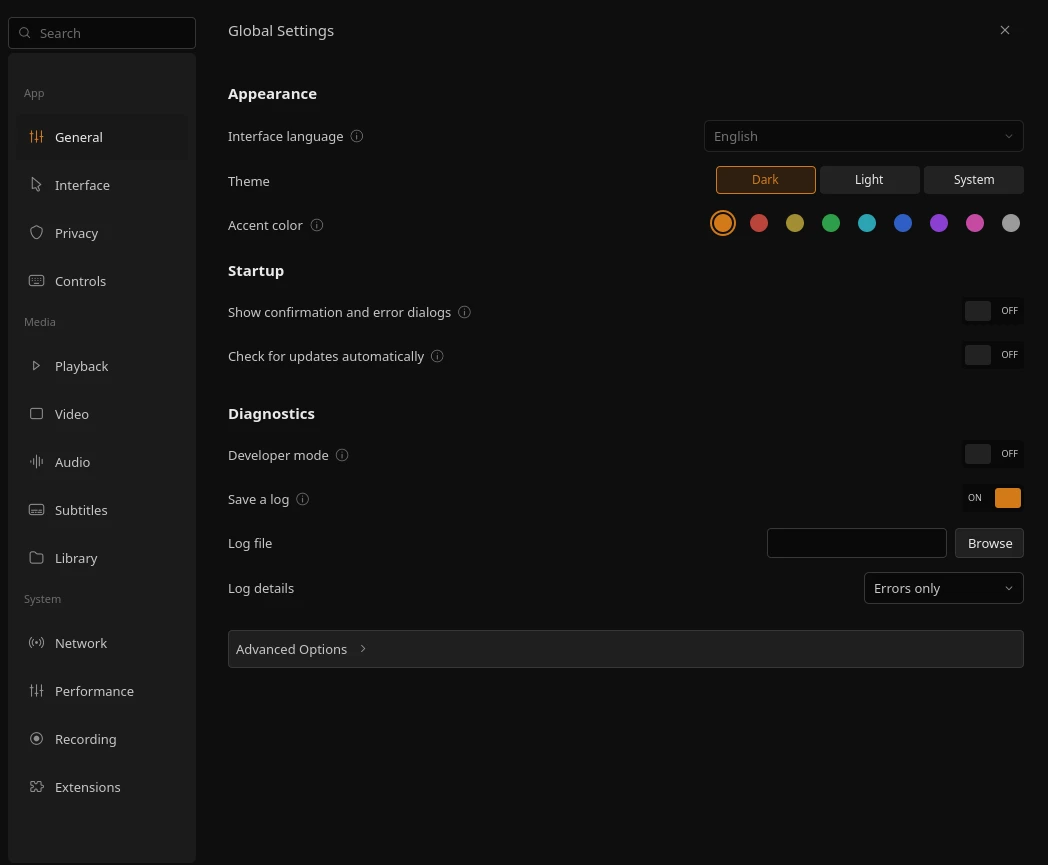
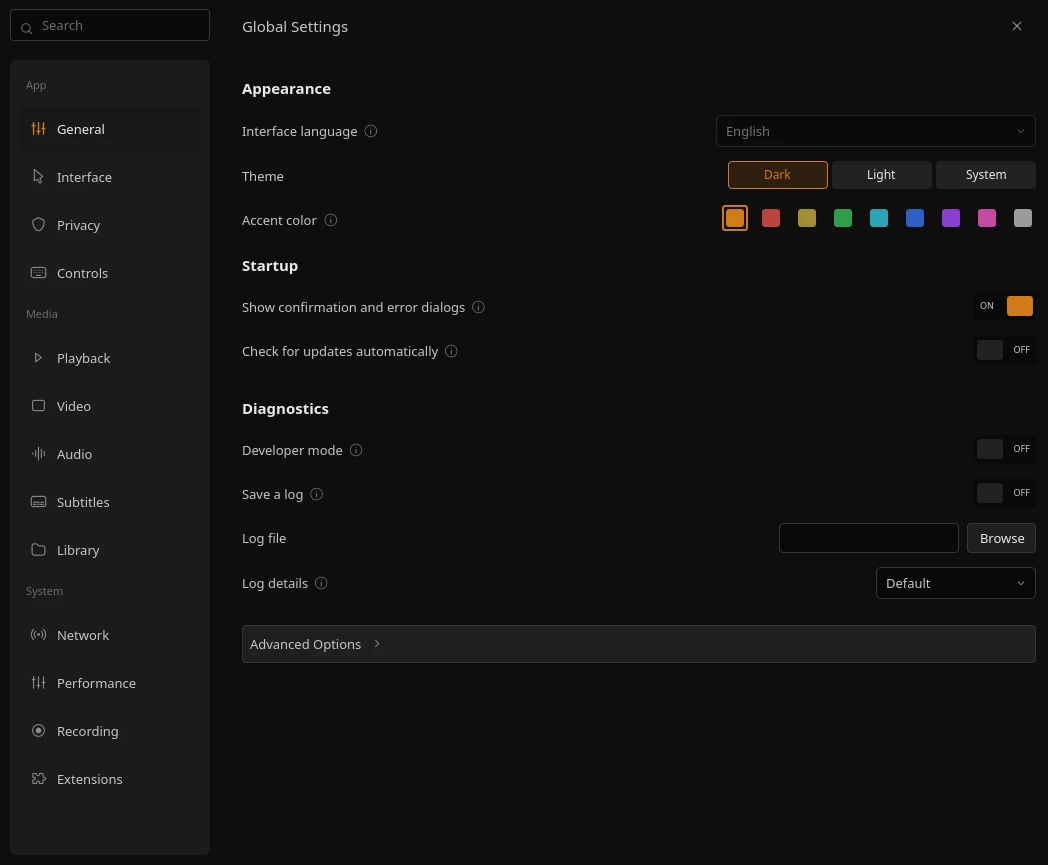
fix(figma): match settings accent swatches

diff --git a/qml/AccentPicker.qml b/qml/AccentPicker.qml
@@ -4,29 +4,42 @@ import Neo 1.0
 Row {
     id: root
     property bool compact: false
+    property bool square: false
     spacing: compact ? 2 : 18
+    function swatchForColor(color) {
+        for (let i = 0; i < accentRepeater.count; ++i) {
+            const item = accentRepeater.itemAt(i)
+            if (item && String(item.modelData).toUpperCase() === String(color).toUpperCase())
+                return item.colorSwatch
+        }
+        return null
+    }
     Repeater {
         id: accentRepeater
         model: Theme.accents
         delegate: Item {
             required property string modelData
             property bool selected: String(Theme.accent).toUpperCase() === modelData.toUpperCase()
+            property alias colorSwatch: colorSwatch
             width: root.compact ? 26 : 60
             height: width
             Rectangle {
+                objectName: "accent-outline-" + (root.square ? "settings-" : "onboarding-") + modelData.slice(1)
                 anchors.centerIn: parent
                 width: root.compact ? (selected ? 26 : 22) : (selected ? 60 : 40)
                 height: width
-                radius: width / 2
+                radius: root.square ? 3 : width / 2
                 color: "transparent"
                 border.width: selected ? 2 : 0
                 border.color: Theme.accent
             }
             Rectangle {
+                id: colorSwatch
+                objectName: "accent-swatch-" + (root.square ? "settings-" : "onboarding-") + modelData.slice(1)
                 anchors.centerIn: parent
                 width: root.compact ? 18 : 40
                 height: width
-                radius: width / 2
+                radius: root.square ? 3 : width / 2
                 color: modelData
             }
             MouseArea {

diff --git a/qml/SettingsDialog.qml b/qml/SettingsDialog.qml
@@ -891,7 +891,7 @@ Modal {
                     SettingRow {
                         label: "Accent color"
                         info: "Replaces VLC orange everywhere in the interface."
-                        AccentPicker { compact: true; spacing: 10 }
+                        AccentPicker { compact: true; square: true; spacing: 10 }
                     }
                     SectionTitle { text: "Startup" }
                     VlcOption { option: "qt-error-dialogs"; label: "Show confirmation and error dialogs"; info: "Let VLC display confirmation and error dialogs." }

diff --git a/qml/Onboarding.qml b/qml/Onboarding.qml
@@ -9,6 +9,7 @@ Modal {
     id: root
     signal topEdgeHoverChanged(bool hovered)
     property alias chromeLayer: onboardingChromeLayer
+    property alias accentPickerControl: accentPicker
     closable: false
     bodyMargin: 0
     width: parent ? parent.width : 1090

diff --git a/docs/figma-parity.md b/docs/figma-parity.md
@@ -11,7 +11,7 @@ Existing behavior is exercised through `scripts/smoke-test.sh`: playback and que
 This matrix tracks VLC Neo against the [VLC Redesign (Community) Figma file](https://www.figma.com/design/4JZcTRTM2ZVZdIV0S61smp/VLC-Redesign--Community---copie-) by Juxtopposed. The authenticated `browser` editor currently loads the copied file. The Figma MCP is authenticated as the user's Starter-plan **View** seat. On 2026-10-29, `get_screenshot` successfully rendered Home node `6261:15078`; the Starter-plan Figma MCP call limit now blocks further screenshot and design-context requests, so current visual comparisons use the authenticated browser editor. Earlier inspection established that `Page 1` has 57 top-level screen frames and 46 component reference frames; the inventory below includes every screen frame, while the 46 component examples are not counted as UI coverage.
 The matrix has 25 grouped rows covering all 57 screen frames. Each row has an explicit status: **9 implemented, 16 partial**. “Partial” means at least one visual, behavior or environment-specific acceptance check remains open; it does not mean the listed implementation is absent.
 
-The **9 implemented / 16 partial / 0 not started** count describes Figma screen groups only (25 grouped rows covering 57 screen frames). Across phases 05–09, **3 phases are complete, 2 are in progress, and 0 are unstarted**. The latest fully successful cross-distro run is CI [`40867519168`](https://github.com/alexandreolives/vlc-neo/actions/runs/40867519168) for code commit `137ca2d` on 2026-10-29. Arch and Linux Mint both passed the build, all 14 CTests and all 869 real-VLC smoke assertions; the dedicated 15-item Figma light-sidebar probe also passed on both. Both passed the repeated-input equalizer PCM probe (0 dB and +12 dB, 3.98× RMS change); the 110-item library checks also passed. The 50,000-item search returned one exact row in 125 ms on Arch and 122 ms on Mint, with setters of 1 ms and 0 ms respectively. Mint install and uninstall checks preserved the distribution Qt version and VLC desktop entry. Later attempt [`40883555354`](https://github.com/alexandreolives/vlc-neo/actions/runs/40883555354) failed 4 assertions on stale pin/title/opacity expectations; `66f9658` corrected those, then [`40889358757`](https://github.com/alexandreolives/vlc-neo/actions/runs/40889358757) exposed that its extra Pin menu item made the Figma More menu contain seven items instead of six on both distros. The current follow-up keeps the six-item menu and uses `Shift+L` for folder pinning. Run [`40890692036`](https://github.com/alexandreolives/vlc-neo/actions/runs/40890692036) passed the build, 14 CTests, preference audits, filters, equalizer, waveform, 110-item library, 50,000-item search and Figma sidebar probes on both distributions; the full smoke finished at 872 passed and 4 failed on each because the playlist keyboard scenario had a missing opening quote in its test expression. That expression is corrected locally, and a focused real-VLC run confirms keyboard focus + Space open the 50 px playlist pane. A cross-distro rerun is pending. The successful run validates the Figma Home artwork fixtures, 324 px Home search field and folder-toolbar text-metric tolerance.
+The **9 implemented / 16 partial / 0 not started** count describes Figma screen groups only (25 grouped rows covering 57 screen frames). Across phases 05–09, **3 phases are complete, 2 are in progress, and 0 are unstarted**. The latest fully successful cross-distro run is CI [`40867519168`](https://github.com/alexandreolives/vlc-neo/actions/runs/40867519168) for code commit `137ca2d` on 2026-10-29. Arch and Linux Mint both passed the build, all 14 CTests and all 869 real-VLC smoke assertions; the dedicated 15-item Figma light-sidebar probe also passed on both. Both passed the repeated-input equalizer PCM probe (0 dB and +12 dB, 3.98× RMS change); the 110-item library checks also passed. The 50,000-item search returned one exact row in 125 ms on Arch and 122 ms on Mint, with setters of 1 ms and 0 ms respectively. Mint install and uninstall checks preserved the distribution Qt version and VLC desktop entry. Later attempt [`40883555354`](https://github.com/alexandreolives/vlc-neo/actions/runs/40883555354) failed 4 assertions on stale pin/title/opacity expectations; `66f9658` corrected those, then [`40889358757`](https://github.com/alexandreolives/vlc-neo/actions/runs/40889358757) exposed that its extra Pin menu item made the Figma More menu contain seven items instead of six on both distros. The current follow-up keeps the six-item menu and uses `Shift+L` for folder pinning. Run [`40890692036`](https://github.com/alexandreolives/vlc-neo/actions/runs/40890692036) passed the build, 14 CTests, preference audits, filters, equalizer, waveform, 110-item library, 50,000-item search and Figma sidebar probes on both distributions; the full smoke finished at 872 passed and 4 failed on each because the playlist keyboard scenario had a missing opening quote in its test expression. That expression is corrected locally, and a focused real-VLC run confirms keyboard focus + Space open the 50 px playlist pane. Cross-distro rerun [`40895499211`](https://github.com/alexandreolives/vlc-neo/actions/runs/40895499211) is exercising the corrected scenario now. The successful run validates the Figma Home artwork fixtures, 324 px Home search field and folder-toolbar text-metric tolerance.
 
 Focused Figma follow-up (2026-10-29): the wide folder toolbar search field was 190 px while the Player grid reference at node `970:2703` measures 324 px. The wide folder search now uses the 324 px reference width, the folder toolbar shows Figma's overflow menu in place of the close icon, and its right-edge actions and preceding controls use adjusted gaps. `scripts/test-library-110-items.sh` probes the search and toolbar positions and opens the six-action overflow menu. The first focused run measured `folderToolbarGeometry=1329/1398/1446/1494/1836/1868`; Arch and Mint measured the count label at x=1325 because of a 4 px font-metric difference, while all icon and search positions matched. The field starts at x=1494 and is 324 px wide. Refreshed [`folder-browser-110-grid.webp`](screenshots/folder-browser-110-grid.webp) and [`folder-browser-110-list.webp`](screenshots/folder-browser-110-list.webp) captures show the current toolbar and floating mini-player in both views; the episode posters now use the matching Figma stills. The test allows only the 1325–1329 text-label range and asserts the other toolbar coordinates and overflow-menu behavior. CI run [`40840269745`](https://github.com/alexandreolives/vlc-neo/actions/runs/40840269745) passed this toolbar assertion on both Arch and Mint; both runs decoded all 88 visible list thumbnails, and the count label measured x=1325 while the icon/search coordinates matched the target. The revised assertion accepts only the 1325–1329 font-metric range.
 
@@ -74,7 +74,7 @@ The video canvas background uses Figma charcoal `#2C2B29` in both themes. Video 
 | **Player - hide UI** — `3328:11554` | Video view with interface controls hidden. | `Main.qml`, `TopBar.qml`, `ControlBar.qml`. Ctrl+H hides the top bar, navigation rail, home screen and bottom controls, including when no media is loaded. Moving to the top edge reveals the header; moving to the bottom edge reveals transport controls; returning to the center hides them again. The Figma frame shows a decorative pixel-art cat as its video content; Neo leaves the active video visible. **Implemented.** | Smoke verifies the empty and playing states, checks top- and bottom-edge reveal plus center hide, and captures a 1920×1080 frame with OSD and title overlays disabled. The test assertions confirm all chrome flags are hidden after the pointer returns to the center, and that Ctrl+H suppresses its confirmation toast when hiding the interface.| Compared node `3328:11554` in the connected Figma browser. The 1920×1080 Xvfb/XCB capture shows the Sintel trailer while the title bar, controls and toast are absent. Direct comparison with the Figma frame confirms the full-screen hidden-chrome state; the visible difference is the active media content (Sintel versus Figma’s pixel-art cat). Sintel attribution and CC BY 3.0 are recorded in the README. |
 | **Player - Light** — `2425:13624` | Light player with a narrow folder list beside the live video. | `NeoTheme.qml`, `Main.qml`, `TopBar.qml`, `LibraryPanel.qml`. Clicking the video folder chip opens a responsive folder sidebar while video remains in the main surface; clicking it again closes the sidebar. The frame was compared in the browser at 1920×1080. Figma’s side pane measures 377 px; Neo now uses the same 19.635% proportion at standard and wide sizes, with a 220 px minimum for compact windows. Compact rows use small VLC-decoded video thumbnails even when the full browser is in grid mode; the sidebar no longer lets grid-card sizing overflow its 38 px rows. The compact folder header now matches Figma: Back/Forward, breadcrumb, More and Open full page above the item-count and sort/view/search toolbar. Pin and Close are hidden in this mode; Play folder and Queue all stay in the full folder browser. Back/Forward navigate between the current folder and its parent, including the initial folder route. A fresh side-by-side 1920×1080 comparison exposed excess vertical space after the breadcrumb and before the first media row; the compact-only margins now align the counter row and first thumbnail with Figma. The focused 15-item probe asserts `rowGeometry=52/120`, decodes all 15/15 thumbnails, and confirms the toolbar/search remain usable at 560×340. Search starts as an icon and expands into a field on demand; the full-width browser retains its search field. The light rail and title bar use Figma A3 at 75% opacity over the charcoal canvas; the sidebar uses B1 at 80%. [`player-light-sidebar.webp`](screenshots/player-light-sidebar.webp) shows the current implementation. **Partial.** the poster artwork is dynamic media content. A fresh 1920×1080 comparison measures the pane at 377 px; focused responsive probes measure 262 px at 1333 px and 220 px at 560×340, leaving 310 px for video in the compact window. Landscape, 4:3, portrait and square video rows stay within their fixed thumbnail bounds. | The full real-VLC smoke at `fbbb125` passes 862/862, including sidebar visibility, 377/262/220 px responsive widths at 1920/1333/560 px, decoded video thumbnails, collapsed/expanded search, filtering, pinning, navigation, closure and compact-window usability. Cross-distro CI run `40811644836` predates the latest width correction. The compact toolbar stays visible while Play folder and Queue all remain hidden there.| Reopened Figma node `2425:13624` in the authenticated browser and compared it with the local capture: the rail and pane widths, header and file-row start positions align. A fresh lossless XCB capture sampled the sidebar at RGB 194,194,193, matching Figma at the same light-gray panel fill; its blank video canvas sampled RGB 44,43,41, matching Figma charcoal `#2C2B29`. The earlier one-channel differences came from comparing against a lossy WebP capture, so no theme-token change was needed. The refreshed fixture uses the 15 thumbnail pixels shown in Figma node `2425:13624`; E04 also uses a full-resolution Figma image export for the playback frame. The focused run reports 15/15 decoded thumbnails, a 377 px pane, `rowGeometry=52/120`, the collapsed `… › The Wand › S01` breadcrumb and Figma Back/Forward/More/Open controls. The screenshot-derived crops are documented as low-resolution visual fixtures, not original episode media. The refreshed 560×340 [`player-light-sidebar-compact.webp`](screenshots/player-light-sidebar-compact.webp) capture confirms a 220 px pane, 310 px video area, and visible compact toolbar and search. |
 | **Player - customize** — `2107:5604`, `2160:6137`, `2160:6564`, `2160:7005`, `2160:7437`, `2160:7869`, `6587:19923`, `2160:8301`, `2160:8732` | Nine separate visual states: the palette, multiple saved control-bar layouts with already-used items removed from the palette, and a folder-browser state with the customized bar. Figma frame captures for all nine have now been inspected; the last state (`2160:8732`) is the folder browser, not an open customization dialog. | `CustomizeDialog.qml`, `ControlItem.qml`, `ControlBar.qml`, `TimelineBar.qml`, `NeoTheme.qml`, `MediaPropertiesDialog.qml`. Palette has 30 supported Figma controls in a 9-column grid; the unsupported HDR action leaves one reserved empty slot at its Figma position, while Playlist Name displays the opened playlist filename; the 1060×666 dialog and compact tiles align with node `2107:5604`. At short window heights, the content scrolls above a fixed footer so profile actions stay reachable. The fixed timeline, elapsed time and duration stay outside the movable palette. Previously saved `time`, `seek` and `length` controls are filtered out during layout reads, preserving the rest of each user's layout. Previous, Play and Next remain fixed on the bar, cannot be removed, and cannot be dragged directly; other controls can be added, reordered and removed around them. HDR remains omitted because VLC Neo has no corresponding working action. Reset/Save/Cancel are separate. Implemented controls include persistent favorites, seek-thumbnail toggle, replay, media properties, bookmarks and chapter access, plus 15-second skips, metadata labels, playlist/home/settings actions and quit. New installs use the Figma transport, fixed timeline and audio/subtitle/settings/queue layout; extra Neo controls remain available in the palette. Named profiles save and restore theme, accent, auto-hide behavior, window startup preference, control layout and a curated set of supported VLC playback, decoding, buffering, audio/video filter and subtitle appearance options. Below 720 px, metadata controls and leading flexible space collapse so playback controls flow from the left; below 400 px, the bar retains Previous, Play, Next, volume and fullscreen. **Partial.** | Full smoke verifies the 30 active controls, the fixed Figma HDR slot and Playlist Name position, keyboard focus and activation of transport/icon controls, focus-fill and accent-ring assertions for palette/bar tiles, Space add/remove actions, fixed transport controls, compact toolbar reflow at 560 px and 320 px, dynamic palette membership, legacy-layout migration, drag add/reorder/remove, cancel, action behavior and a customized folder-browser layout. A focused dialog run saves a named profile, scrolls to its row and activates Apply, then confirms that buffering, hardware-decoder, video-filter, subtitle-style and playback options are restored; proxy-password injection is rejected. The corrected full smoke passed all 668 checks with the rebuilt `build-fidelity2` plugin, including the shortcut-reset assertion and recording scenario under full-suite load. Focused palette checks verify transparent/borderless idle tiles, Figma-colored pointer hover, and the accent focus ring.| Rendered and compared local 1920×1080 captures for the saved-layout states in `2160:6137`, `2160:6564`, `2160:7005`, `2160:7437`, `2160:7869`, `6587:19923` and `2160:8301`. The `2160:8732` folder-browser state was also compared in the connected Figma browser; rail and pane widths, titlebar, timeline, transport and centered-title visibility align. The refreshed [`customize-folder-browser.webp`](screenshots/customize-folder-browser.webp) capture now uses all 15 reference filenames and their screenshot-derived Figma stills; the sidebar probe asserts the custom control layout and hides the duplicate centered title while its Filename control is shown. It also confirms the title remains visible in the default layout. The crops remain low-resolution visual fixtures, not source videos, as documented in [`FIGMA-HOME-ASSETS.md`](../tests/fixtures/FIGMA-HOME-ASSETS.md). The freshly regenerated `customize.webp` matches node `2107:5604` with the unsupported HDR slot kept empty; the Quit VLC label now matches the reference: Figma palette items have no card outlines, so the idle local palette tiles are transparent and borderless. The pointer-hover fill uses `#191919`, matching Figma Button Variant2; focused tiles retain the accent outline. The smoke now pointer-targets the Settings, Queue, Audio, Subtitle and Play controls by object name; a focused real-VLC run at 1120×680 confirmed each reports its Figma hover fill and icon/accent color. The centered title now follows VLC media metadata, respects `qt-name-in-title`, and elides within its 42% width. Directly comparing Figma node `2160:6137` in the connected browser showed its media title centered in the titlebar; a focused VLC run confirmed the matching dynamic label and fixed app-label fallback. Node `2160:8732` instead puts the filename in the custom bottom bar and leaves the titlebar center empty; `TopBar.qml` hides the duplicate title only when the saved layout includes Filename. Focused real-VLC checks confirm default title visibility and its absence in that custom layout. The smoke pointer-targets Settings, Queue, Audio, Subtitle, Play, Previous and Next and checks the volume-mute hover in dark (`#191919`) and light (`#B3B3B3`) themes. A focused real-VLC run then appended each of the 25 optional icon controls to the default layout one at a time and verified its visible hover fill, one-pixel accent focus ring and focused hover surface; the smoke runner now repeats all 50 checks. Palette/bar tiles have their own focus-ring checks. |
-| **Settings - global** — `999:5047`, `3046:9282` | Global/app preferences: appearance, startup, diagnostics, developer options and advanced settings. | `SettingsDialog.qml` follows Figma's Global Settings header, search field and App / Media / System category groups. A persisted Simple / Advanced switch exposes VLC options marked advanced without discarding their stored values; category icons switch to their exported Figma active-state SVGs when selected; the refreshed Video capture uses `video-active.svg`. Numeric controls validate input and retain fractional values for float options. Theme/accent, one-instance, queue behavior, file logging, browsable log destination/detail, VLC verbose logging as Developer mode and the `qt-error-dialogs` confirmation/error switch are wired; onboarding access is under Interface settings. The log destination field is 180 px wide and its Browse button stays beside it. Startup includes an opt-in VLC Neo update check against the project's public GitHub tags, with semantic version comparison and a daily cooldown; it reports a newer tag and never downloads or installs software. The installed version comes from CMake's project version. The header keeps the Figma search/title/close layout; the redundant quick detail toggle was removed. The Advanced Options control stays named as in Figma when expanded and sits at the bottom of the page. The expanded section maps minor-warning visibility to VLC quiet mode, log format to `logmode`, statistics collection to `stats`, and additional interfaces to `extraintf`. Global accent swatches use the compact square treatment from the Figma frame; onboarding retains its separate circular swatches. The frame was compared at its 1048×865 Figma dimensions. The Figma language selector is represented by a disabled English-only row with a clear explanation; additional interface translations are not bundled. **Partial.** | Smoke asserts the 1048×865 Figma frame and 180 px log destination field, captures the Figma Global Settings example state in `docs/screenshots/settings-global.webp`, exercises category filtering and the detail-level button, verifies that the log-path Browse button opens the native save picker, checks integer/float parsing, round-trips a float VLC option, verifies advanced-option visibility/value/mode persistence, round-trips `qt-error-dialogs` and VLC verbose logging, confirms the Developer mode switch updates when verbosity changes elsewhere, verifies Simple/Advanced visibility plus the live quiet/logmode/stats controls, checks update opt-in/default state, numeric tag ordering, daily cooldown and preference persistence, and checks theme/accent and VLC config persistence. A live offscreen request to GitHub returned successfully and found no tag newer than `v0.1.0`.| Compared the refreshed 1048×865 `settings-global.webp` against Figma node `999:5047`: English language, Dark theme, orange accent, confirmation and update checks off, logging on, Developer mode off and Errors only match the example state. Section spacing, diagnostics path controls, category rail and Advanced Options position align. The Figma inspector confirms this node is intentionally set to 20% opacity, so its dimmed colors do not establish the intended full-opacity app palette. The second node, `3046:9282`, is at 100% opacity. Its expanded Advanced controls for minor warnings, log format and playback statistics now map to VLC’s `quiet`, `logmode` and `stats` settings; the additional-interface row maps to VLC’s `extraintf` and is labeled for that real behavior. The Figma field named “Additional command line options” has no equivalent live VLC config option, so Neo keeps its general option editor instead of implying arbitrary command-line tokens will be applied. [`settings-global-advanced.webp`](screenshots/settings-global-advanced.webp) records the expanded state. The visible Core output verbosity and generic option editor are additional Neo controls. Additional UI translations remain an explicit localization gap. |
+| **Settings - global** — `999:5047`, `3046:9282` | Global/app preferences: appearance, startup, diagnostics, developer options and advanced settings. | `SettingsDialog.qml` follows Figma's Global Settings header, search field and App / Media / System category groups. A persisted Simple / Advanced switch exposes VLC options marked advanced without discarding their stored values; category icons switch to their exported Figma active-state SVGs when selected; the refreshed Video capture uses `video-active.svg`. Numeric controls validate input and retain fractional values for float options. Theme/accent, one-instance, queue behavior, file logging, browsable log destination/detail, VLC verbose logging as Developer mode and the `qt-error-dialogs` confirmation/error switch are wired; onboarding access is under Interface settings. The log destination field is 180 px wide and its Browse button stays beside it. Startup includes an opt-in VLC Neo update check against the project's public GitHub tags, with semantic version comparison and a daily cooldown; it reports a newer tag and never downloads or installs software. The installed version comes from CMake's project version. The header keeps the Figma search/title/close layout; the redundant quick detail toggle was removed. The Advanced Options control stays named as in Figma when expanded and sits at the bottom of the page. The expanded section maps minor-warning visibility to VLC quiet mode, log format to `logmode`, statistics collection to `stats`, and additional interfaces to `extraintf`. Global accent swatches use the compact square treatment from the Figma frame; onboarding retains its separate circular swatches. The frame was compared at its 1048×865 Figma dimensions. The Figma language selector is represented by a disabled English-only row with a clear explanation; additional interface translations are not bundled. **Partial.** | Smoke asserts the 1048×865 Figma frame and 180 px log destination field, captures the Figma Global Settings example state in `docs/screenshots/settings-global.webp`, exercises category filtering and the detail-level button, verifies that the log-path Browse button opens the native save picker, checks integer/float parsing, round-trips a float VLC option, verifies advanced-option visibility/value/mode persistence, round-trips `qt-error-dialogs` and VLC verbose logging, confirms the Developer mode switch updates when verbosity changes elsewhere, verifies Simple/Advanced visibility plus the live quiet/logmode/stats controls, checks update opt-in/default state, numeric tag ordering, daily cooldown and preference persistence, and checks theme/accent and VLC config persistence. A focused real-VLC geometry check confirms all nine General-page accent swatches use 3 px square corners while all nine onboarding swatches remain circular; both 1048×865 General captures were refreshed. A live offscreen request to GitHub returned successfully and found no tag newer than `v0.1.0`.| Compared the refreshed 1048×865 `settings-global.webp` against Figma node `999:5047`: English language, Dark theme, orange accent, confirmation and update checks off, logging on, Developer mode off and Errors only match the example state. Section spacing, diagnostics path controls, category rail and Advanced Options position align. The Figma inspector confirms this node is intentionally set to 20% opacity, so its dimmed colors do not establish the intended full-opacity app palette. The second node, `3046:9282`, is at 100% opacity. Its expanded Advanced controls for minor warnings, log format and playback statistics now map to VLC’s `quiet`, `logmode` and `stats` settings; the additional-interface row maps to VLC’s `extraintf` and is labeled for that real behavior. The Figma field named “Additional command line options” has no equivalent live VLC config option, so Neo keeps its general option editor instead of implying arbitrary command-line tokens will be applied. [`settings-global-advanced.webp`](screenshots/settings-global-advanced.webp) records the expanded state. The visible Core output verbosity and generic option editor are additional Neo controls. Additional UI translations remain an explicit localization gap. |
 | **Settings - interface** — `3046:10057`, `3062:11379` | Skin, window behavior, playback controls, notifications, system tray and auto-hide options. | `SettingsDialog.qml` fills the application window edge to edge with square corners and follows its resizing at the Figma frame size. At 1048×865, runtime bounds are exactly (0,0,1048,865), and the Interface page section positions match node `3046:10057`. Below 740 px, the category rail compacts to icon buttons with hover labels, preserving the 320 px settings fields at 560×340. The page gives the category its Figma title and follows the Figma order: Skin, Window, Playback Controls, Notifications and System Tray, then Setup. Auto-hide uses the Figma drop-down and a continuous 0–10 s slider; the supported row controls use the 320 px Figma width. `NCombo.qml` renders the selected value, outlined field and visible option rows, with selected-option checkmark, pointer selection, keyboard navigation and outside-click dismissal. Its compact 32 px field and option rows fit the preferences layout. `NSwitch.qml` now uses the Figma's 62 × 28 px ON/OFF proportions, with focus and keyboard activation. Interface controls include persistent fullscreen visibility, compact startup sizing, remembering window size/position, keeping the window above others, showing the media title in the system window title, resizing to video dimensions, and selecting the current or a detected display. The custom header shows the active media title when `qt-name-in-title` is enabled and falls back to “VLC Media Player” when that preference is disabled or no media is active; long titles elide within the centered title area. The selected display is applied before entering fullscreen. Window geometry is restored at startup and saved when Neo closes. The tray icon registers through `org.kde.StatusNotifierWatcher` without Qt Widgets and reopens Neo when activated; track notifications use `org.freedesktop.Notifications` according to VLC's Never / When minimized / Always preference. The Skin section writes VLC's `intf=skins2` preference and the selected `.vlt` path writes `skins2-last`; the regular `vlc` launcher honors skins2 after restart, while `vlc-neo` always opens Neo. The embedded-video and window-decoration controls store their VLC video-output options and explain that Neo's own player window always embeds video and draws its custom title bar. Those two options affect compatible VLC video-output interfaces, not Neo's QML window. **Partial.** | Smoke checks the skins2 interface selection and restart notice, `.vlt` file picker, embedded-video and decoration option round trips, full-window preference geometry (`settingsBounds=0,0,1048,865`) and resizing, the compact icon rail and 320 px controls at 560×340, slider mouse/keyboard changes, auto-hide modes, topmost/title behavior, fullscreen-on-open, F11 fullscreen entry/exit with geometry restoration, display selection/config persistence, compact startup, geometry save/restore, tray registration when a watcher is available, access to onboarding from Interface settings, dropdown toggle/selection behavior, and captures the interface page to `docs/screenshots/settings-interface.webp`. A VLC playback check confirms the titlebar displays the media title when enabled and falls back when disabled; a config round trip confirms `qt-video-autoresize` is exposed and writable.| Both 1048×865 captures were compared with nodes `3046:10057` and `3062:11379` in the Figma browser at 86% canvas zoom. The dropdown field and open menu were compared with the Figma component named `Dropdown`; the switch proportions were compared on the same Figma settings frame. The refreshed [`settings-interface.webp`](screenshots/settings-interface.webp) uses the matching Figma preference states and fills the frame edge to edge; Skin, Window, Playback Controls and Notifications and System Tray section positions were compared at 1048×865; a real-VLC resize run confirms the compact 560×340 view retains category navigation and the full-width auto-hide control. The screenshot sandbox sets `intf=skins2` to reproduce the Figma ON state while the smoke runner explicitly starts Neo. Confirm skins2 rendering with a valid `.vlt` skin. On this Ubuntu install, both `/usr/share/vlc/skins2/default.vlt` and an official VideoLAN `VLC Darkness.vlt` fail extraction and VLC exits with “no skins found”. This VLC build reports `--disable-libtar`, which likely prevents loading these archive-based skins; the regular launcher honors `intf=skins2`, but skin rendering remains unverified. F11 entry/exit was also checked under Mutter on the 1920×1080 eDP-1 display: fullscreen covered the display and exiting restored the 1120×680 window geometry. Only one monitor is available here, so multi-screen selection remains open. The secondary Figma frame `3062:11379` was also opened in the authenticated browser and compared with the local 1048×865 capture: the search/header, category rail, skin controls, window options and playback-controls sections align in size and position. Skin rendering and the documented decorations limitation remain open. |
 | **Settings - privacy** — `3062:11911` | Recent history, resume position and network metadata/last.fm choices. | `SettingsDialog.qml` page `privacy`, `Player`, `PlayerStateStore`, `VlcOption.qml`. Recent-item saving and the exclusion filter, which splits entries on the vertical bar, map to VLC's Qt options; the player applies both when recording recents. Resume memory can be disabled, which clears stored resume points and stops new points from being saved. Clear history removes recents and resume points and refreshes the Home/Recent views. Metadata lookup, Last.fm credentials and submission URL map to VLC config. The Last.fm switch tracks the username field and clears both credentials when disabled. Live Last.fm submission still needs account credentials. **Partial.** | Smoke checks option support/round trips, history clearing controls, resume-memory switch synchronization, Last.fm switch/credential behavior, and captures the 1048×865 screen to `docs/screenshots/settings-privacy.webp`.| Compared with Figma node `3062:11911` at the same frame size. A local VLC Neo check opened one video whose folder matched the exclusion and a second allowed video; only the allowed item appeared in Recent. Live Last.fm submission still needs account credentials. |
 | **Settings - playback** — `3062:12552`, `3072:13408` | Startup behavior, resume, default speed, preferred tracks, order and seeking. | `SettingsDialog.qml` page `playback`, `NeoTheme.qml`, `VlcOption.qml`. Resume, autostart, default speed, audio focus, preferred resolution/menu language/audio/subtitle tracks, repeat/shuffle, stop-at-item/end action and precise seeking are mapped to VLC options or the app's persisted resume choice. Audio/subtitle defaults use VLC stream numbers (0-based); -1 leaves track selection to VLC. The “Stop” end action leaves VLC's default playlist-end behavior in place; “Stop after each item” is a separate VLC switch. Playback selectors and track fields use the Figma 320 px width. Advanced start-paused and preparse controls remain available. **Implemented.** | Smoke checks VLC option availability, Simple/Advanced visibility and round trips for rate, quality, language, track numbers, audio focus, shuffle, stop behavior, repeat/end actions and precise seeking. A two-audio/two-subtitle MKV verifies saved stream number 1 selects its Spanish audio and subtitle after restarting VLC. Separate real-VLC relaunch checks confirm Pause reaches the end and stays paused, while Exit closes VLC when the playlist completes. It checks all seven playback controls against the Figma 320 px width and captures the full-frame page to `docs/screenshots/settings-playback.webp`.| Both nodes `3062:12552` and `3072:13408` were visually compared against 1048×865 Neo captures at 86% zoom; the frame, section layout and two startup/resume variants align. The refreshed `settings-playback.webp` now reproduces the Figma example values: Always resume, Best available video, English, tracks 1, Shuffle on and Stop after each item on. The multi-track fixture verifies saved audio/subtitle track numbers after relaunch. A three-second first item followed by a 40-second second item verifies VLC’s `play-and-stop` setting persists across restart and stops before advancing. A second independently generated source with three audio streams and two subtitle streams restores the French audio and subtitle indices after relaunch. |
